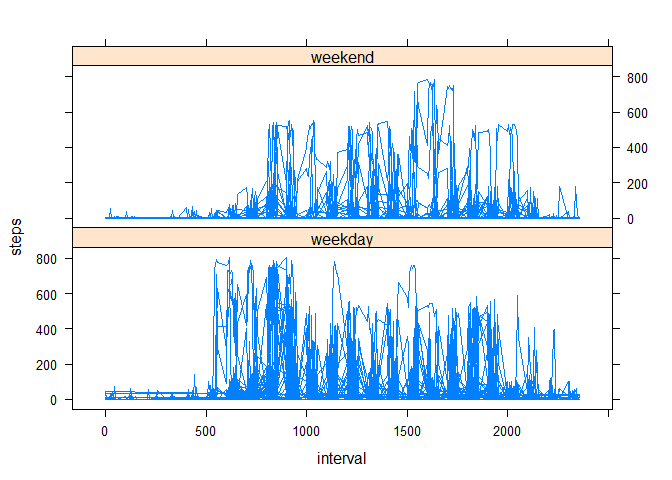
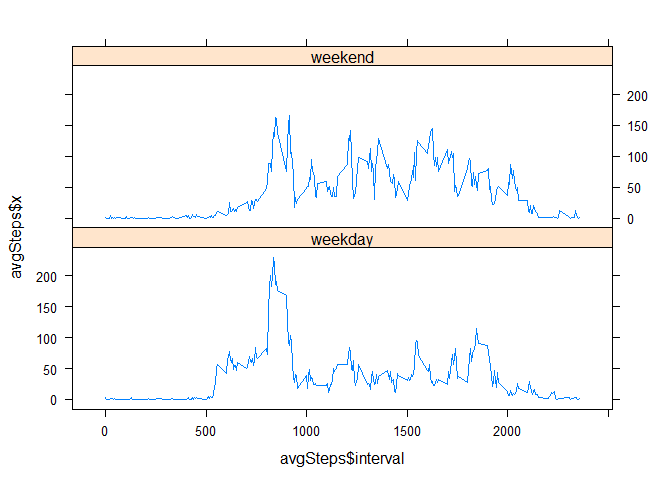
commit

diff --git a/PA1_template.html b/PA1_template.html
@@ -129,9 +129,10 @@ print(paste(&quot;The mean total number of steps taken per day is &quot;,mean2))
 }
 wd&lt;-factor(sapply(activity2$date,findWeekend))
 activity2&lt;-cbind(activity2,wd)
+avgSteps&lt;-aggregate(activity2[,1],as.list(activity2[,3:4]),FUN=mean)
 library(lattice)
-xyplot(steps ~ interval | wd, data = activity2, layout = c(1,2),type=&quot;l&quot;)</code></pre>
[1 lines of base64/hex data omitted]
+xyplot(avgSteps$x ~ avgSteps$interval | wd, data = avgSteps, layout = c(1,2),type=&quot;l&quot;)</code></pre>
[1 lines of base64/hex data omitted]
 </div>
 
 

diff --git a/PA1_template.md b/PA1_template.md
@@ -145,8 +145,9 @@ findWeekend<-function(x){
 }
 wd<-factor(sapply(activity2$date,findWeekend))
 activity2<-cbind(activity2,wd)
+avgSteps<-aggregate(activity2[,1],as.list(activity2[,3:4]),FUN=mean)
 library(lattice)
-xyplot(steps ~ interval | wd, data = activity2, layout = c(1,2),type="l")
+xyplot(avgSteps$x ~ avgSteps$interval | wd, data = avgSteps, layout = c(1,2),type="l")
 ```
 
 ![](PA1_template_files/figure-html/unnamed-chunk-1-1.png) 
